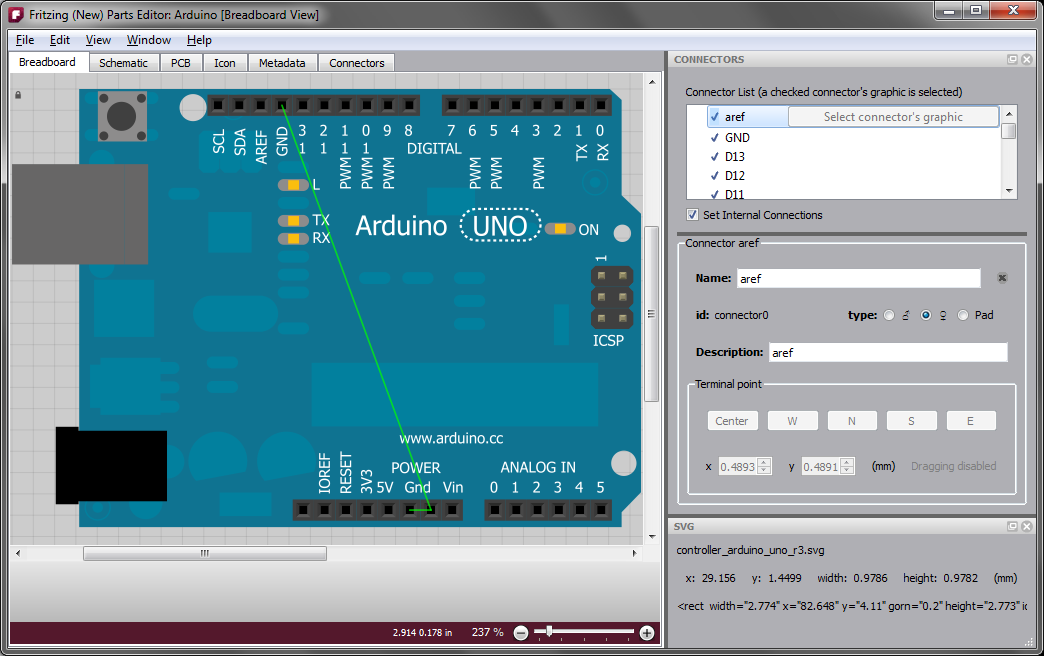
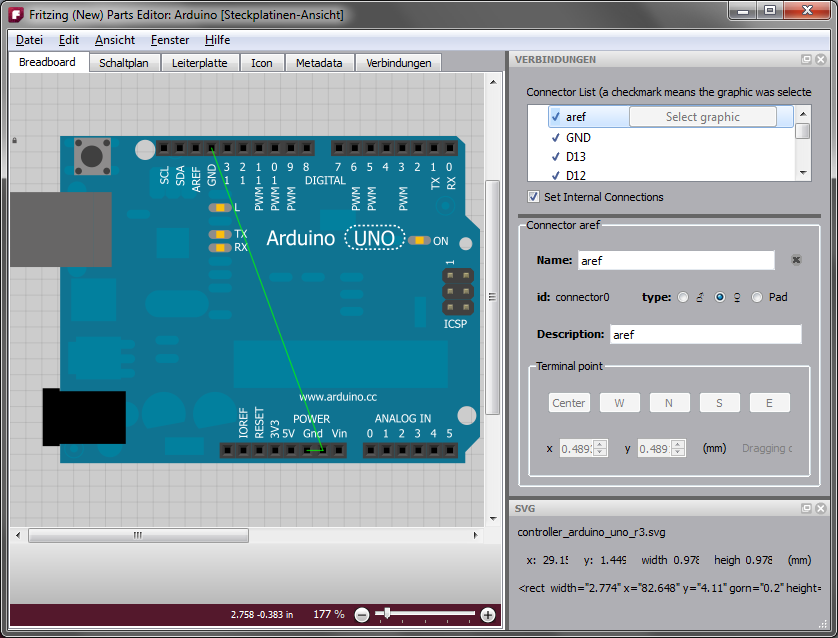
text tweaks
git-svn-id: http://fritzing.googlecode.com/svn/trunk@6519 85f94c43-f63a-0410-9d22-21439860c375

diff --git a/fritzing/help/parts_editor_help.html b/fritzing/help/parts_editor_help.html
@@ -62,15 +62,15 @@
         <br>
         Loading PNG or JPG images directly is possible, but since these
         become SVG images with only a single element, there is no way to
-        place individual connectors. We
-        also&nbsp; discourage the use of PNG and JPG because these are
-        raster-based rather than vector-based, so they don't look good
-        when scaled. If you still prefer to use PNG or JPG, we recommend
-        that for now you open them in an external SVG editor and add
-        connector elements there (see below for more about 'connector
-        elements'). Save the result as an SVG, and use that in the Parts
-        Editor.&nbsp; In phase 2 you will be able to add connector
-        elements directly in the Parts Editor.<br>
+        place individual connectors. We also&nbsp; discourage the use of
+        PNG and JPG because these are raster-based rather than
+        vector-based, so they don't look good when scaled. If you still
+        prefer to use PNG or JPG, we recommend that for now you open
+        them in an external SVG editor and add connector elements there
+        (see below for more about 'connector elements'). Save the result
+        as an SVG, and use that in the Parts Editor.&nbsp; In phase 2
+        you will be able to add connector elements directly in the Parts
+        Editor.<br>
         <br>
         Since you have already begun with a part, it may be that you
         will only have to load a single image for a particular view--you
@@ -116,6 +116,7 @@
         Sometimes you will want to reuse the breadboard image as your
         icon image. There is a shortcut for this under <b>File &gt;
           Reuse breadboard image</b>. You can also find the options: <b>File
+
 
 
           &gt; Reuse schematic image</b>, and <b>File &gt; Reuse PCB
@@ -183,22 +184,22 @@
         Next we load the new breadboard image using <b>File &gt; Load
           image for view</b>.&nbsp; In the Tools widget at the upper
         right, you see a list of connectors. Choose one to make it the <b>current
+
         </b>or <b>active</b> <b>connector</b>. If it has already been
         associated with an SVG element, that element will display a
         marquee highlight. Since we are just starting out, we will
         choose pin1 which is not currently associated with any SVG
         element.<br>
         <br>
-        <img alt="pin1" src="images/pin1.png" height="328" width="499"><br>
+        <img alt="pin1" src="images/pin1.png" height="319" width="419"><br>
         <br>
-        To create the actual association click the "Select connector's
-        graphic" button over in the Connectors widget. This basically
-        puts you in a "mode" that lasts until the next time you mouse
-        down. If you want to escape the mode, click anywhere outside the
-        part or use the escape key. You can only make the association
-        when you are in this mode (this keeps you from accidentally
-        associating a connector to a graphic when you didn't intend to).
-        <br>
+        To create the actual association click the "Select graphic"
+        button over in the Connectors widget. This basically puts you in
+        a "mode" that lasts until the next time you mouse down. If you
+        want to escape the mode, click anywhere outside the part or use
+        the escape key. You can only make the association when you are
+        in this mode (this keeps you from accidentally associating a
+        connector to a graphic when you didn't intend to). <br>
         <br>
         In the mode, move your mouse over the SVG. As you do so,
         different SVG elements will highlight. It is often the case that
@@ -250,10 +251,10 @@
         Here is what the Connectors widget looks like with pin3 as the
         current connector:<br>
         <br>
-        <img alt="tools1" src="images/tools1.png" height="481"
-          width="384"><br>
+        <img alt="tools1" src="images/tools1.png" height="463"
+          width="348"><br>
         <br>
-        Notice that since we have assigned graphics to three of the
+        Notice that since we have selected graphics for three of the
         connectors, those connectors are checked in the connector list.<br>
         <br>
         You can use the buttons or spinners to adjust the terminal
@@ -277,14 +278,14 @@
         talking about the Arduino UNO, here is what it looks like when
         Set internal connections is checked:<br>
         <br>
-        <img alt="bus1" src="images/bus1.png" height="328" width="522"><br>
+        <img alt="bus1" src="images/bus1.png" height="319" width="419"><br>
         <br>
         The green lines represent the internal connections. To remove an
         internal connection, right-click the line and choose "Remove
         internal connection". To add a new connection, just drag a line
         out from one connector to another.<br>
         <b><br>
-        </b><b><big><big>Known limits</big></big></b><br>
+        </b><b><big><big>Known limitations</big></big></b><br>
         <br>
         The following feature are due in phase two: <br>
         <ul>

diff --git a/fritzing/src/partseditor/petoolview.cpp b/fritzing/src/partseditor/petoolview.cpp
@@ -86,7 +86,7 @@ PEToolView::PEToolView(QWidget * parent) : QWidget(parent)
     QFrame * connectorsFrame = new QFrame;
     QVBoxLayout * connectorsLayout = new QVBoxLayout;
 
-    QLabel * label = new QLabel(tr("Connector List (a checked connector's graphic is selected)"));
+    QLabel * label = new QLabel(tr("Connector List (a checkmark means the graphic was selected)"));
 	connectorsLayout->addWidget(label);
 
     m_connectorListWidget = new QTreeWidget();
@@ -445,7 +445,8 @@ void PEToolView::hideConnectorListStuff() {
 		else {
 			if (item != current) ;		// label is already there
 			else {
-				m_assignButton = new QPushButton(tr("Select connector's graphic"));
+				m_assignButton = new QPushButton(tr("Select graphic"));
+                m_assignButton->setMaximumWidth(150);
 				connect(m_assignButton, SIGNAL(clicked()), this, SLOT(pickModeChangedSlot()), Qt::DirectConnection);
 				m_assignButton->setToolTip(tr("Use the cursor location and mouse wheel to navigate to the SVG element which you want to assign to the current connector, then mouse down to select it."));
 				m_connectorListWidget->setItemWidget(item, 1, m_assignButton);
